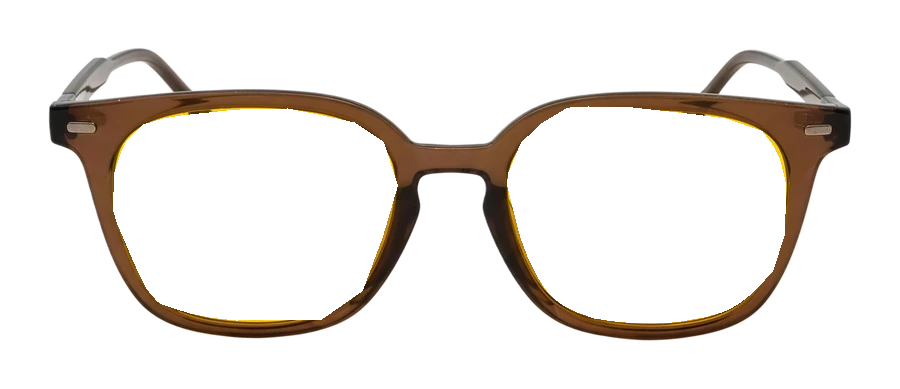
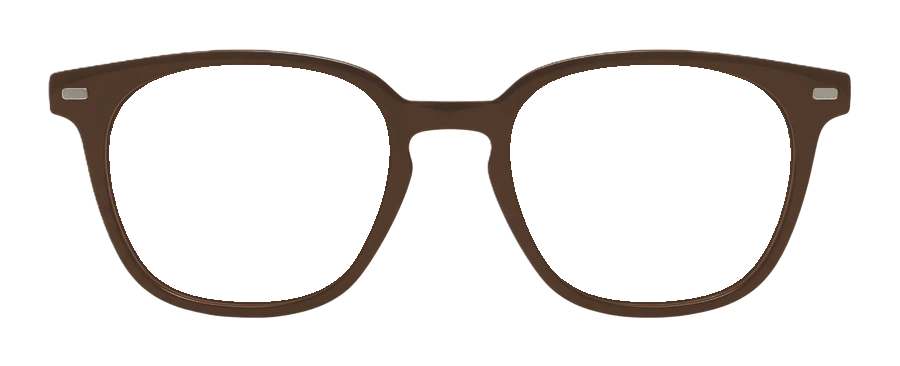
Amber try-on: the brown square is the black square recoloured; temples run to the top of the ear; the nose hides the far lens on a turned head

Changed region(s): [[0.0311, 0.1202, 0.9644, 0.9016]]

diff --git a/src/components/amber/tryon-render.ts b/src/components/amber/tryon-render.ts
@@ -23,6 +23,8 @@ const TEMPLE_L = 356
 const BRIDGE_TOP = 168
 const BRIDGE_LOW = 6
 const NOSE_TIP = 1
+/** The ridge of the nose, from between the eyes to the tip. */
+const NOSE_RIDGE = [6, 197, 195, 5, 4, 1]
 const FOREHEAD = 10
 const CHIN = 152
 
@@ -69,8 +71,9 @@ export function placement(pts: Landmarks, W: number, H: number, style: FrameStyl
   const offL = dot(sub(iris(IRIS_L, EYE_L, 362), at(fit.lensR, bridge)), down)
   const origin = add(bridge, mul(down, (offR + offL) / 2))
   const o = at([0, 0], origin)
-  // The top of the ear: behind the face's side at eye level.
-  const ear = (t: V3) => add(add(t, mul(back, templeW * 0.3)), mul(down, templeW * 0.04))
+  // Where the temple meets the head: the top of the ear's root, behind the face's side and a little above it
+  // (photographs of the real frames worn, 20.10.2026). The temple ends there; the rest is behind the ear.
+  const ear = (t: V3) => add(add(t, mul(back, templeW * 0.42)), mul(up, templeW * 0.035))
   // A temple shows when its side of the head faces the camera (that side is nearer than the other one).
   const turn = (P(TEMPLE_L)[2] - P(TEMPLE_R)[2]) / templeW
   // Real fronts curve a little around the face: each half turns back by WRAP from the bridge.
@@ -81,7 +84,14 @@ export function placement(pts: Landmarks, W: number, H: number, style: FrameStyl
     const b = at(fit.bridge, origin)
     return [Xh[0], Xh[1], Y[0], Y[1], b[0] - Xh[0] * fit.bridge[0] - Y[0] * fit.bridge[1], b[1] - Xh[1] * fit.bridge[0] - Y[1] * fit.bridge[1]]
   }
+  // On a turned head the nose hides the inner part of the far lens: the ridge of the nose, from the bridge down.
+  const far: 0 | 1 | null = Math.abs(turn) < 0.12 ? null : turn > 0 ? 1 : 0
+  const ridge = NOSE_RIDGE.map((i) => [pts[i].x * W, pts[i].y * H] as Pt)
   return {
+    far,
+    ridge,
+    farDir: (far === 1 ? [across[0], across[1]] : [-across[0], -across[1]]) as Pt,
+    upDir: [up[0], up[1]] as Pt,
     matrix: [X[0], X[1], Y[0], Y[1], o[0], o[1]] as Matrix,
     halves: [half(-1), half(1)] as [Matrix, Matrix],
     // The hinges where the curved front ends (the temples start there).
@@ -103,8 +113,9 @@ function drawFront(ctx: CanvasRenderingContext2D, img: CanvasImageSource, fit: F
     [p.halves[0], 0, fit.bridge[0] + 0.5],
     [p.halves[1], fit.bridge[0] - 0.5, fit.w],
   ]
-  for (const [m, x0, x1] of parts) {
+  for (const [k, [m, x0, x1]] of parts.entries()) {
     ctx.save()
+    if (p.far === k) clipBehindNose(ctx, p)
     ctx.transform(...m)
     ctx.beginPath()
     ctx.rect(x0, 0, x1 - x0, fit.h)
@@ -112,6 +123,27 @@ function drawFront(ctx: CanvasRenderingContext2D, img: CanvasImageSource, fit: F
     ctx.drawImage(img, 0, 0, fit.w, fit.h)
     ctx.restore()
   }
+}
+
+/**
+ * Keeps only what of the far half is not behind the nose: the region on the far side of the ridge (and everything
+ * above the bridge, where the frame rests on the nose and is in front of it).
+ */
+function clipBehindNose(ctx: CanvasRenderingContext2D, p: Placement) {
+  const big = 4000
+  const [fx, fy] = p.farDir
+  const [ux, uy] = p.upDir
+  const top = p.ridge[0]
+  const tip = p.ridge[p.ridge.length - 1]
+  ctx.beginPath()
+  ctx.moveTo(top[0] + ux * big - fx * big, top[1] + uy * big - fy * big)
+  ctx.lineTo(top[0] - fx * 2, top[1] - fy * 2)
+  for (const q of p.ridge) ctx.lineTo(q[0], q[1])
+  ctx.lineTo(tip[0] - ux * big, tip[1] - uy * big)
+  ctx.lineTo(tip[0] - ux * big + fx * big, tip[1] - uy * big + fy * big)
+  ctx.lineTo(top[0] + ux * big + fx * big, top[1] + uy * big + fy * big)
+  ctx.closePath()
+  ctx.clip()
 }
 
 function drawTemple(ctx: CanvasRenderingContext2D, from: Pt, to: Pt, show: number, style: FrameStyle, faceW: number) {

diff --git a/src/components/amber/tryon-fit.ts b/src/components/amber/tryon-fit.ts
@@ -2,7 +2,7 @@
  * Where each frame's try-on layers (public/tryon/<frame>-rama.webp and -lentila.png, 900 px wide, made from the
  * studio front shot) have their anchors, in image pixels: the centre of each lens, the hinges (outer edge at hinge
  * height) and the bridge. The try-on maps them onto the eyes, the temples and the bridge of the nose.
- * Generated with the layers; regenerate both together.
+ * Generated with the layers; regenerate both together. The brown square uses the black square's layers, recoloured.
  */
 export type Pt = [number, number]
 export type FrameFit = { w: number; h: number; lensL: Pt; lensR: Pt; hingeL: Pt; hingeR: Pt; bridge: Pt }
@@ -11,6 +11,6 @@ export const TRYON_FIT: Record<string, FrameFit> = {
   'cat-eye-negru': { w: 900, h: 368, lensL: [247.5, 199.0], lensR: [652.0, 198.5], hingeL: [68.0, 141], hingeR: [829.0, 141], bridge: [450.5, 134.0] },
   'cat-eye-bej': { w: 900, h: 354, lensL: [245.5, 190.0], lensR: [653.5, 190.0], hingeL: [63.0, 135], hingeR: [835.0, 135], bridge: [449.5, 129.0] },
   'patrat-negru': { w: 900, h: 366, lensL: [249.0, 183.0], lensR: [650.0, 183.0], hingeL: [74.0, 124], hingeR: [825.0, 124], bridge: [449.5, 116.9] },
-  'patrat-maro': { w: 900, h: 389, lensL: [255.0, 214.0], lensR: [646.0, 214.0], hingeL: [78.0, 157], hingeR: [825.0, 157], bridge: [452.0, 150.2] },
+  'patrat-maro': { w: 900, h: 366, lensL: [249.0, 183.0], lensR: [650.0, 183.0], hingeL: [74.0, 124], hingeR: [825.0, 124], bridge: [449.5, 116.9] },
   'subtire-negru': { w: 900, h: 321, lensL: [218.5, 160.0], lensR: [681.5, 160.0], hingeL: [15.0, 90], hingeR: [885.0, 90], bridge: [450.0, 82.2] },
 }

diff --git a/src/components/amber/AmberTryOn.tsx b/src/components/amber/AmberTryOn.tsx
@@ -42,7 +42,7 @@ const STYLE: Record<string, FrameStyle> = {
   'cat-eye-negru': { temple: '#b99a5e', templeWidth: 0.012, fit: 1.06 },
   'cat-eye-bej': { temple: '#c4a46c', templeWidth: 0.012, fit: 1.06 },
   'patrat-negru': { temple: '#15181a', templeWidth: 0.026, fit: 1.04 },
-  'patrat-maro': { temple: 'rgba(107,74,54,0.93)', templeWidth: 0.026, fit: 1.04 },
+  'patrat-maro': { temple: 'rgba(86,56,38,0.95)', templeWidth: 0.026, fit: 1.04 },
   'subtire-negru': { temple: '#1b1b1b', templeWidth: 0.009, fit: 1.02 },
 }
 /** The lens colour as a filter: what it lets through (multiplied with the face behind it). */
